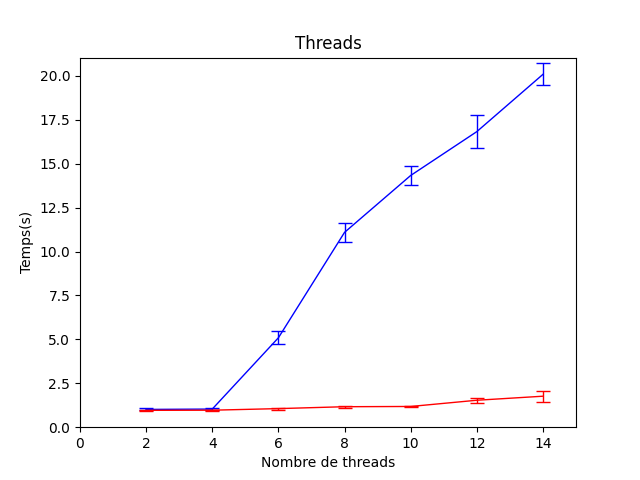
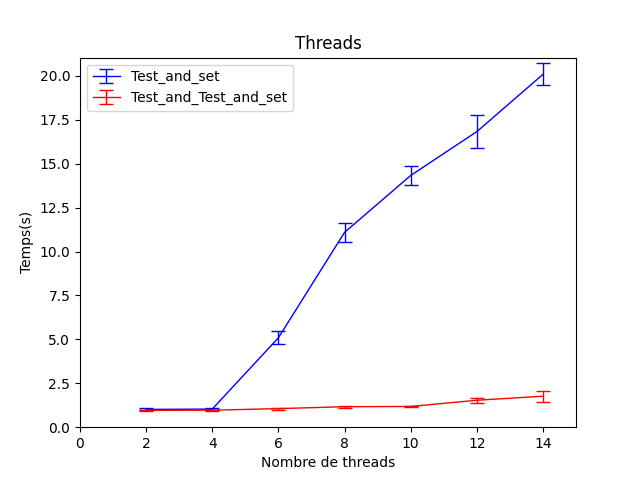
Fix plot

Changed region(s): [[0.125, 0.125, 0.4688, 0.25]]

diff --git a/Projet sys info/ReadPlot.py b/Projet sys info/ReadPlot.py
@@ -22,7 +22,7 @@ fig1 = plt.figure()
 x = [2*i for i in range(1,7)]
 
 plt.errorbar(x, y,er, color="blue", capsize=5, linewidth=1.0, linestyle="-", label="Sémaphores POSIX")
-plt.errorbar(x, y2,er2, color="red", capsize=5, linewidth=1.0, linestyle="-", label="Sémaphores attende active")
+plt.errorbar(x, y2,er2, color="red", capsize=5, linewidth=1.0, linestyle="-", label="Attende active TaS")
 plt.errorbar(x, y3,er3, color="green", capsize=5, linewidth=1.0, linestyle="-", label="Attende active TaTas")
 
 
@@ -31,6 +31,6 @@ plt.ylabel("Temps(s)")
 plt.title("Readers-Writers")
 plt.ylim(0,max(y3)+max(er3)*2)
 plt.xlim(0,13)
-         
+plt.legend(loc="upper right")         
 
 plt.savefig("Graphes/Read.png")

diff --git a/Projet sys info/TestAndSetPlot.py b/Projet sys info/TestAndSetPlot.py
@@ -12,7 +12,7 @@ fig1 = plt.figure()
 
 x = [2*i for i in range(1,8)]
 
-plt.errorbar(x, y,er, color="blue", capsize=5, linewidth=1.0, linestyle="-")
+plt.errorbar(x, y,er, color="blue", capsize=5, linewidth=1.0, linestyle="-", label="Test_and_set")
 
 plt.xlabel("Nombre de threads")
 plt.ylabel("Temps(s)")
@@ -29,7 +29,8 @@ er=[np.std(i) for i in a]
 
 
 
-plt.errorbar(x, y,er, color="red", capsize=5, linewidth=1.0, linestyle="-")
+plt.errorbar(x, y,er, color="red", capsize=5, linewidth=1.0, linestyle="-", label="Test_and_Test_and_set")
 
+plt.legend(loc="upper left")
 
 plt.savefig("Graphes/Test_and_set.png")

diff --git a/Projet sys info/ProdPlot.py b/Projet sys info/ProdPlot.py
@@ -31,5 +31,6 @@ plt.ylabel("Temps(s)")
 plt.title("Producteurs-consomateurs")
 plt.ylim(0,max(y3)+max(er3)*2)
 plt.xlim(0,13)
+plt.legend(loc="upper right")
          
 plt.savefig("Graphes/Prod.png")
